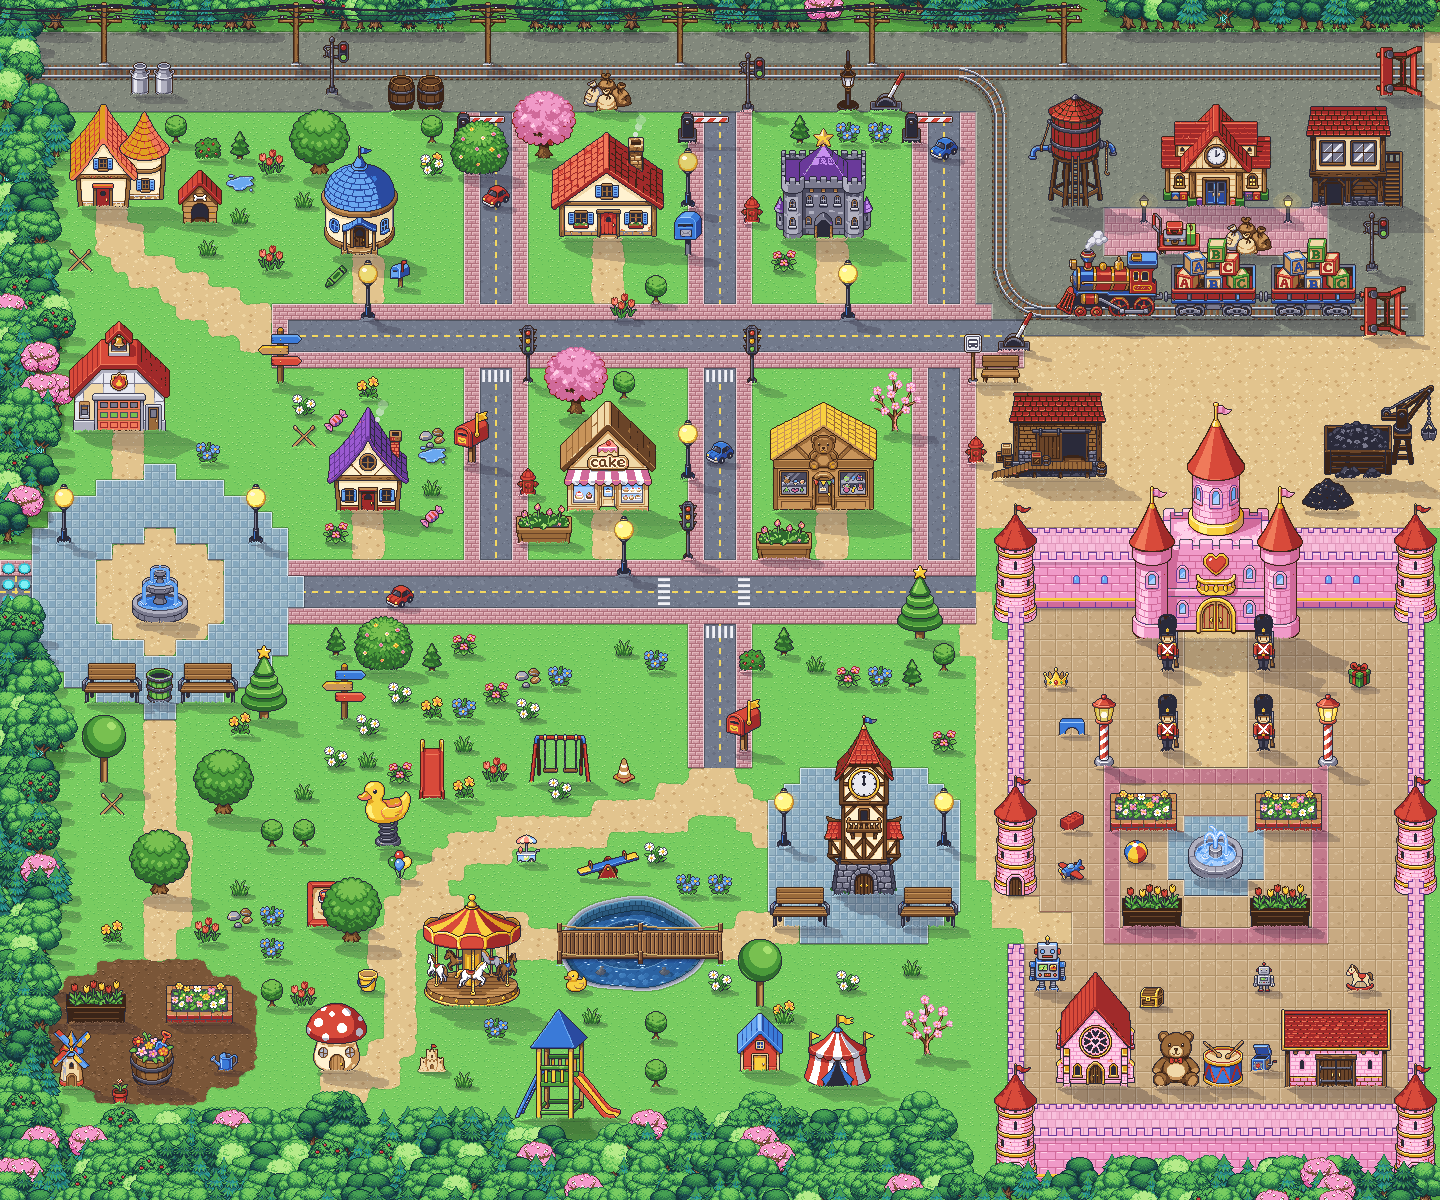
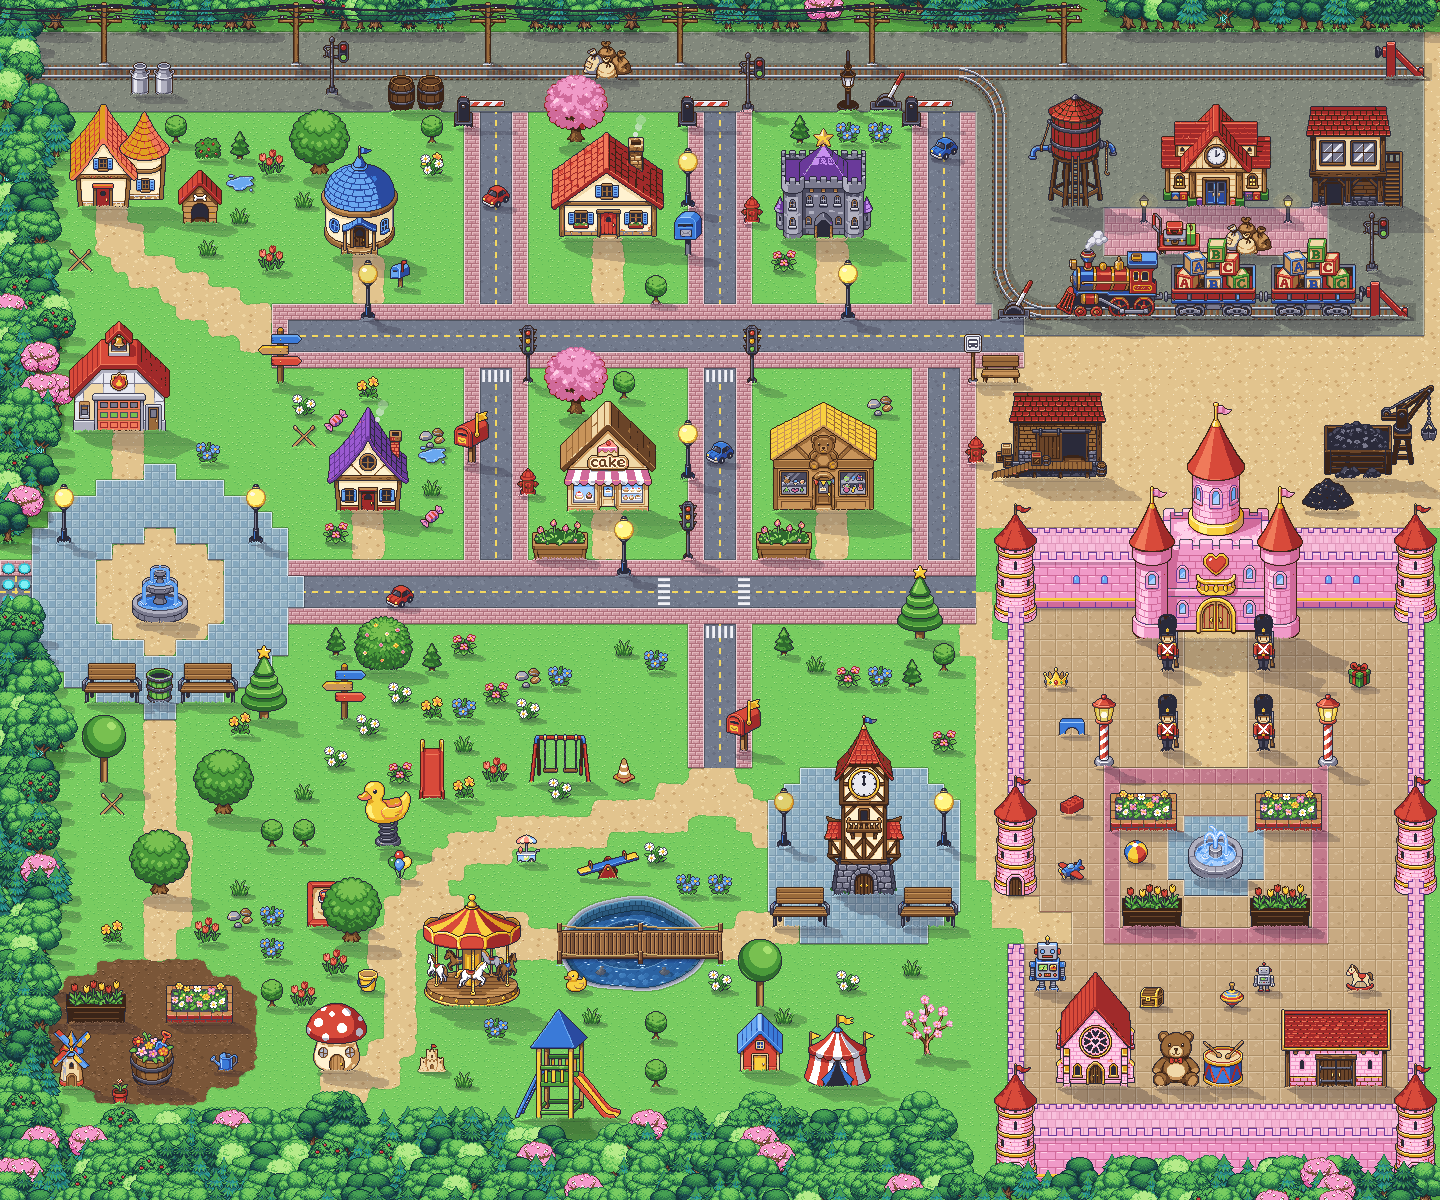
Karte 10: Schranken hoeher, Pflanzen nie auf Strasse/Gehweg (Busch weg), neue Prellboecke (PixelLab, Seitenansicht)
Claude-Session: https://claude.ai/code/session_01SaoYHKhnro4LFcPJqjaPsq

diff --git a/tools/karte10_objekte.py b/tools/karte10_objekte.py
@@ -37,6 +37,8 @@ WIND = {'klein/09', 'klein/10', 'klein/12', 'klein/35', 'baeume/03', 'klein2/04'
 SPIELZEUG = ['klein/02', 'klein/03', 'klein/06', 'klein/07', 'klein/22', 'klein/32', 'klein/41', 'klein/42',
              'klein/43', 'klein/45', 'klein/46', 'klein/53', 'klein/54', 'klein/59', 'klein/14', 'klein/52']
 
+STRASSE = {'spielplatz/04', 'spielplatz/05', 'baeume/09', 'klein2/00', 'klein2/01', 'banner/13', 'bahn2/11_zu',
+           'klein/00', 'klein/01', 'baeume/05', 'banner/12'}   # Strassenmoebel: duerfen auf Gehweg/Strasse
 SCHAUKEL = {'baeume2/08', 'klein2/61', 'klein/06'}
 HAUS_ANIM = {'haeuser/03': 'kamin', 'haeuser/02': 'kamin', 'haeuser2/03': 'glocke'}   # Rauch aus dem Kamin, Glocke
 # (sprite, Mitte x in px, Fussreihe, Optionen)  - grosse Objekte zuerst
@@ -95,8 +97,8 @@ FEST = [
     ('bahn2/02', 66 * T + 8, 31, {}), ('bahn2/13', 85 * T, 31, {}),
     ('bahn2/00', 74 * T, 15, {'ueberlappen': True}), ('bahn2/03', 78 * T + 8, 15, {'ueberlappen': True}),
     # Schranken geschlossen: Pfosten auf dem linken Gehweg, der Arm sperrt quer ueber die Strasse
-    ('bahn2/11_zu', 29 * T + 8, 8, {'ueberlappen': True}), ('bahn2/11_zu', 43 * T + 8, 8, {'ueberlappen': True}),
-    ('bahn2/11_zu', 57 * T + 8, 8, {'ueberlappen': True}),
+    ('bahn2/11_zu', 29 * T + 8, 7, {'ueberlappen': True}), ('bahn2/11_zu', 43 * T + 8, 7, {'ueberlappen': True}),
+    ('bahn2/11_zu', 57 * T + 8, 7, {'ueberlappen': True}),
     ('bahn2/05', 55 * T + 8, 6, {}), ('bahn2/05', 63 * T + 8, 21, {}),
     ('bahn2/02', 9 * T + 8, 6, {}), ('bahn2/03', 37 * T + 8, 6, {}), ('bahn2/09', 26 * T + 8, 6, {}),
     ('bahn2/14', 52 * T + 8, 6, {'anim': 'lampe'}),
@@ -235,6 +237,9 @@ def main():
                 continue                                    # nichts mitten auf die Sandwege
             if 0 <= ky < rows and 0 <= tx < cols and cls[ky][tx] == 'W' and not opt.get('wald'):
                 continue                                    # Waldboden: nur Waldbaeume
+            if name not in STRASSE and 0 <= ky < rows and any(
+                    cls[ky][xx] in 'ap' for xx in range(max(0, int(kx - mitte) // T), min(cols, int(kx + mitte) // T + 1))):
+                continue                                    # Pflanzen/Deko nie auf Strasse oder Gehweg
             x = raster_x(alpha[datei], kx) if not opt.get('achse') else int(round(kx - mitte))
             y = (ky + 1) * T - 1 - zu
             if not pruefen:
@@ -288,17 +293,17 @@ def main():
                         'anim': 'fahnen_tuch', 'an_wand': True, 'kein_schatten': True, 'keine_verdeckung': True,
                         **({'mauer_davor': T} if fy < 70 * T else {})})
         belegen(td, xx, fy - tzu)
-    # Prellboecke an den rechten Gleisenden: gedreht, stehen senkrecht quer zum Gleis, Puffer zum Zug hin
-    pd, ph, pzu, pm = sprite('bahn2/07_gedreht')
+    # Prellboecke an den rechten Gleisenden (PixelLab k10_prellbock/03, Seitenansicht): Puffer zeigt nach links zum
+    # Zug, die Streben stehen auf dem Gleis, der Fuss liegt auf der unteren Schiene
+    pd, ph, pzu, pm = sprite('prellbock/03')
     pa = alpha[pd]
-    pys = np.nonzero(pa.any(axis=1))[0]
     for gl in lay['gleise']:
         yc = gl['y'] * T + 7
-        x_ = gl['x'][1] * T - pa.shape[1] - 2 if gl['x'][1] < cols else cols * T - pa.shape[1] - 2
-        y_ = int(yc - (pys.min() + pys.max()) / 2)
-        objekte.append({'datei': pd, 'basis': 'bahn2/07_gedreht', 'x': int(x_), 'y': y_, 'fuss': ph,
+        x_ = gl['x'][1] * T - pa.shape[1]
+        y_ = yc + 6 - pzu
+        objekte.append({'datei': pd, 'basis': 'prellbock/03', 'x': int(x_), 'y': int(y_), 'fuss': ph,
                         'kachel': [int(x_ // T), gl['y']], 'ebene': 1, 'fest_pos': True, 'vorrang': True})
-        belegen(pd, int(x_), y_)
+        belegen(pd, int(x_), int(y_))
     # 2) Zug auf dem unteren Gleis (Raeder auf der Schiene), Lok vorne links (Schienenraeumer zeigt nach links)
     gy = lay['gleise'][1]['y'] * T + 13
     x = 66 * T

diff --git a/tools/pixellab_objekte.py b/tools/pixellab_objekte.py
@@ -1024,6 +1024,12 @@ OBJEKTGRUPPEN_K10 = {
         'small blue railway worker toy figure with a lantern, perfectly straight front elevation view, symmetric, facing the camera head-on, no perspective, no isometric, flat orthographic, classic 2D handheld RPG style', 'small pile of coal, perfectly straight front elevation view, symmetric, facing the camera head-on, no perspective, no isometric, flat orthographic, classic 2D handheld RPG style', 'old station lantern on a post, perfectly straight front elevation view, symmetric, facing the camera head-on, no perspective, no isometric, flat orthographic, classic 2D handheld RPG style',
         'wooden station bench with a red backrest, perfectly straight front elevation view, symmetric, facing the camera head-on, no perspective, no isometric, flat orthographic, classic 2D handheld RPG style',
     ]},
+    'k10_prellbock': {'size': 64, 'items': [
+        'small red toy railway buffer stop seen exactly from the side in profile: sturdy red wooden frame standing on the rail end, the round black buffer pads on the LEFT side facing left toward an arriving train, slanted support beams on the right, side view, profile view, flat orthographic, classic 2D handheld RPG style',
+        'red and white striped railway buffer stop seen from the side in profile, a vertical bumper beam with two round buffers on the left facing left, triangular support behind it on the right, sitting on short rail ends, side view, flat orthographic, classic 2D handheld RPG style',
+        'small toy railway end stop block seen from the side: a red wooden sleeper block with a yellow striped warning board standing upright, buffer facing left, side view, flat orthographic, classic 2D handheld RPG style',
+        'cute toy railway buffer stop made of red painted wood, side view profile, upright post with a round black buffer facing left and a diagonal brace to the right, flat orthographic, classic 2D handheld RPG style',
+    ]},
     'k10_klein': {'size': 32, 'items': [
         'small red toy car',
         'small blue toy car',
